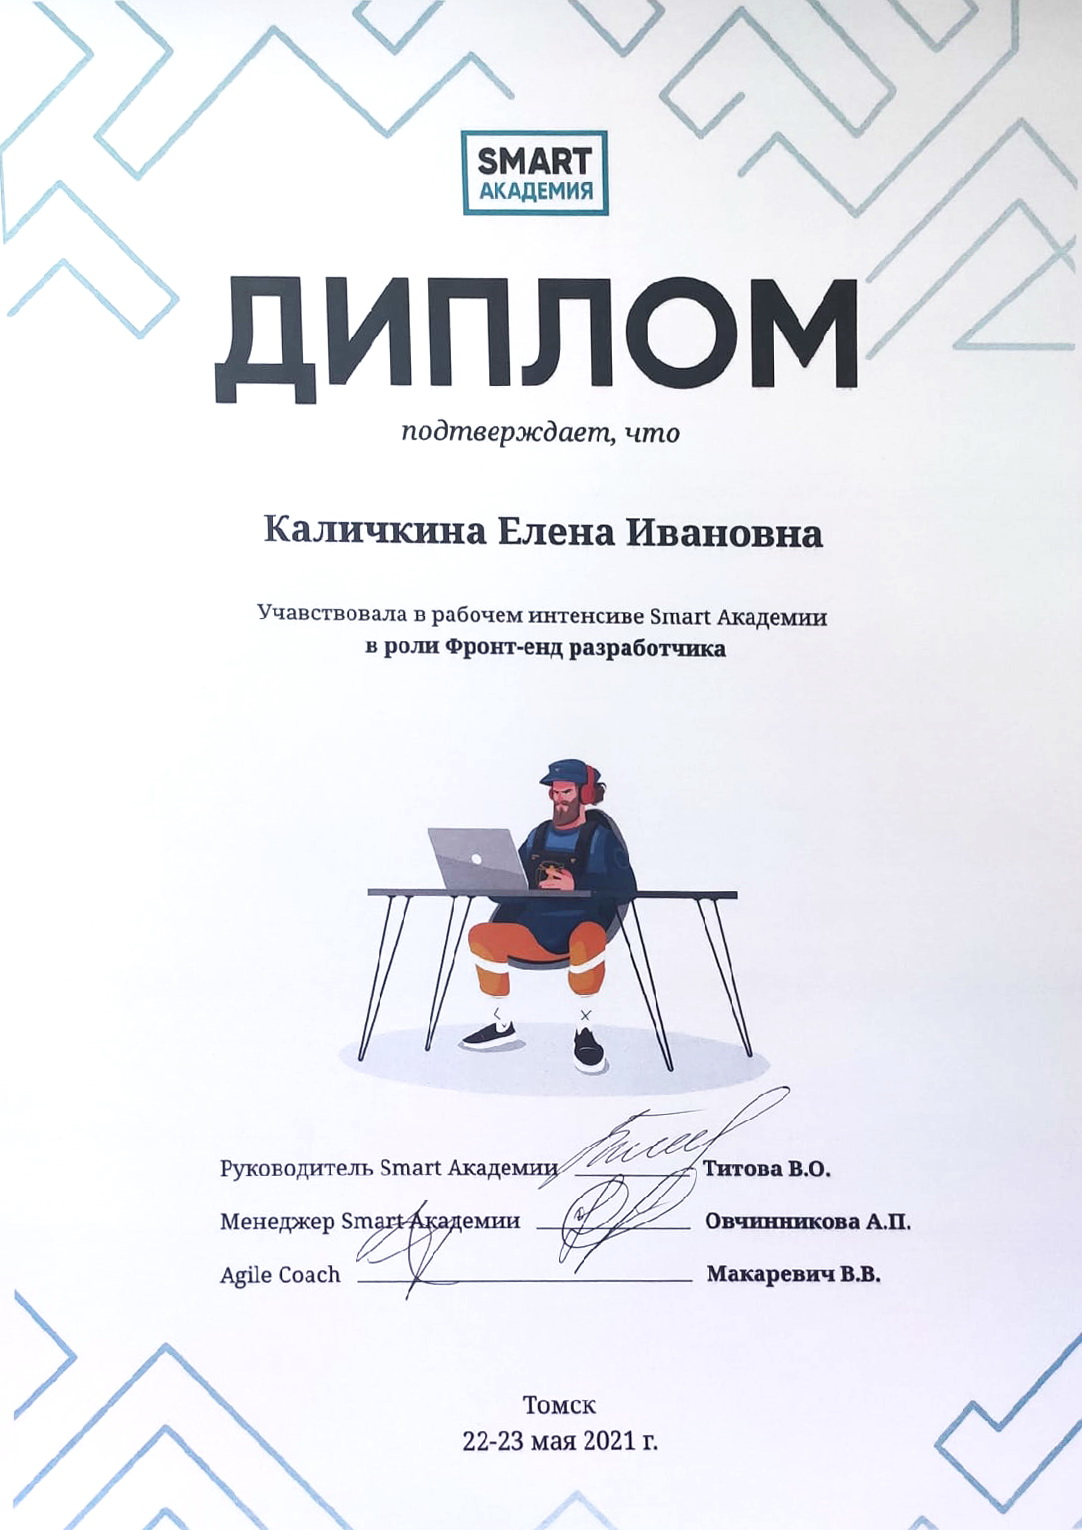
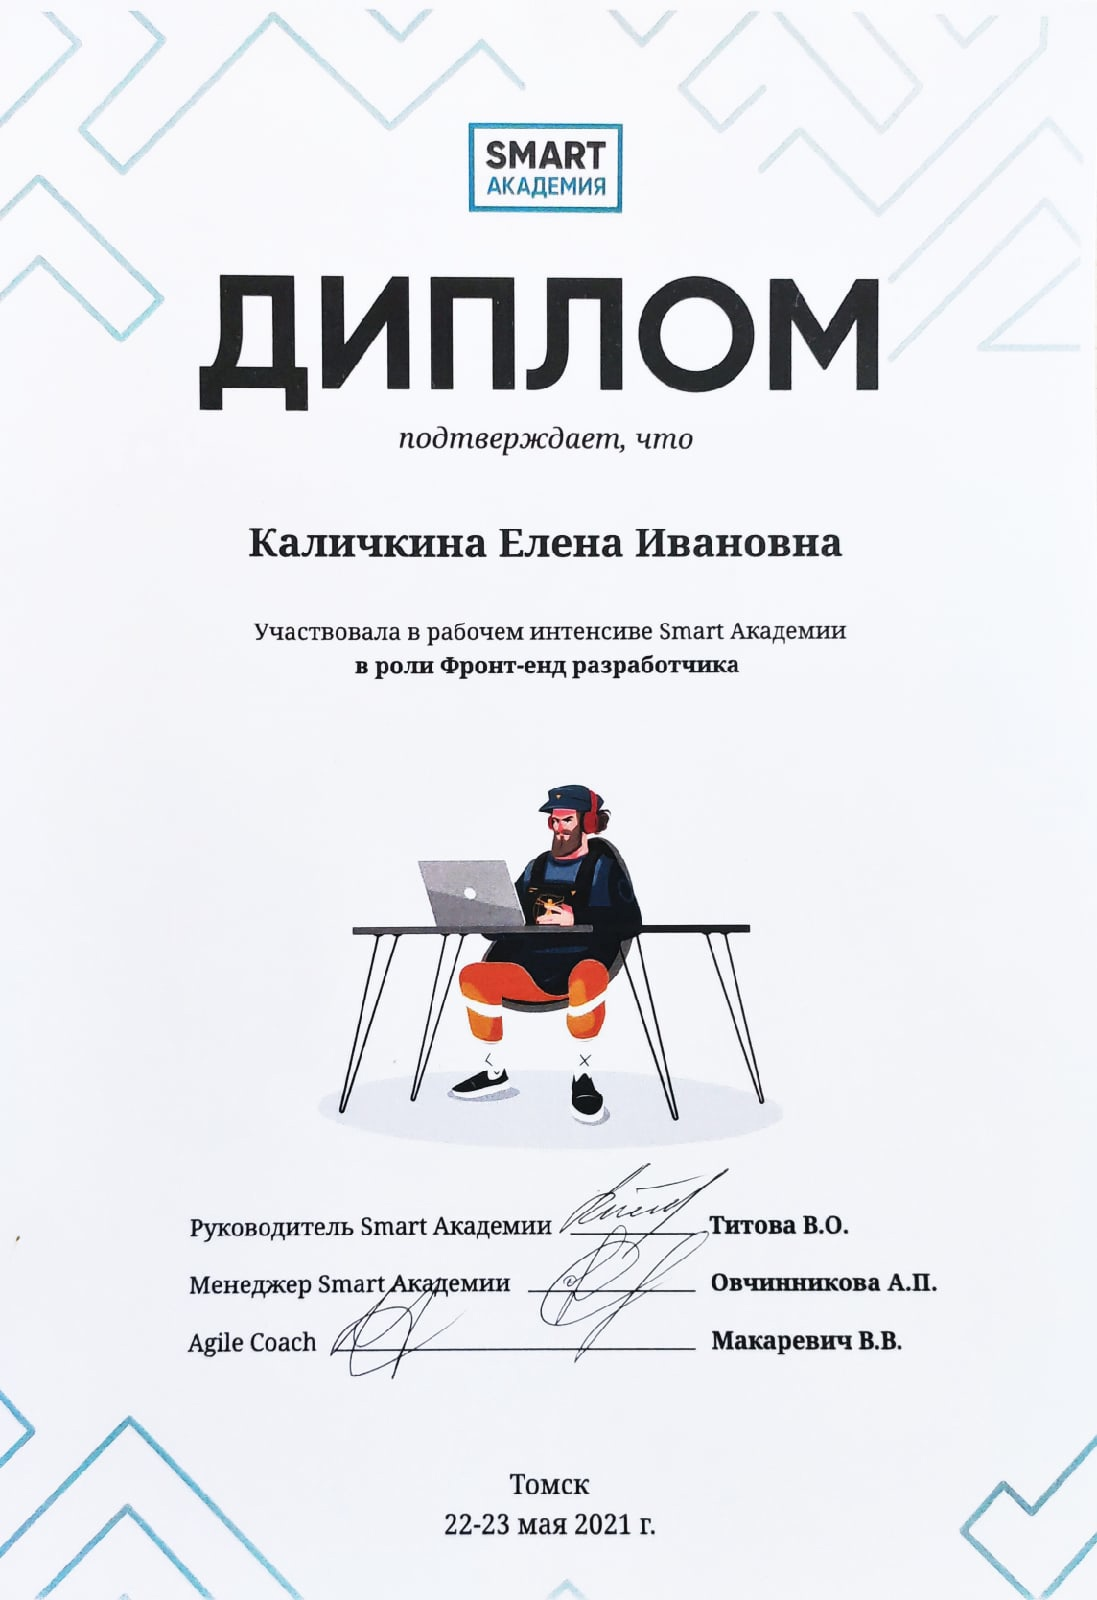
feat: add sertificate

diff --git a/index.html b/index.html
@@ -50,7 +50,8 @@
                           <a href="#drop3" class="item droplink">More...</a>
                           <div class="droped">
                             <div>
-                              <img src="diploma.jpg" width="700"><br>
+                              <img src="diploma.jpg" width="700"><hr>
+                              <img src="ser-smart.jpg" width="1000"><br>
                               <a class="droplink" href="#exp">Back</a>
                             </div>
                           </div>
@@ -98,6 +99,7 @@
                     <li class="skill">Native JS </li>
                     <li class="skill">SCSS</li>
                     <li class="skill">Vue.js</li>
+                    <li class="skill">Vuetify</li>
                     <li class="skill">Git</li>
                 </ul>
             </section>
@@ -111,10 +113,10 @@
             </section>
         </main>  
         <footer class="footer">
-            <p class="contacts">GitHub: <a href="https://github.com/Maiev93"><img src="github.svg" alt="icon" width="50"></a></p>
+            <p class="contacts">GitHub: <a href="https://github.com/Maiev93?tab=repositories"><img src="github.svg" alt="icon" width="50"></a></p>
             <p class="contacts">GitLab: <a href="https://gitlab.com/Maiev93"><img src="gitlab.svg" alt="icon" width="60"></a></p>
             <p class="year">Year: <time datetime="2021-02-28 00:20">2021</time></p>
-            <p class="course">Course: <a href="https://rs.school/js/"><img src="rss.svg" alt="icon" width="100"></a></p>
+            <!-- <p class="course">Course: <a href="https://rs.school/js/"><img src="rss.svg" alt="icon" width="100"></a></p> -->
             <!-- <p class="youtube">Self-rating video: <a href="https://youtu.be/XXHo03ayrLs"><img src="yt.svg" alt="icon" width="50"></a></p> -->
         </footer>
     </div>   
